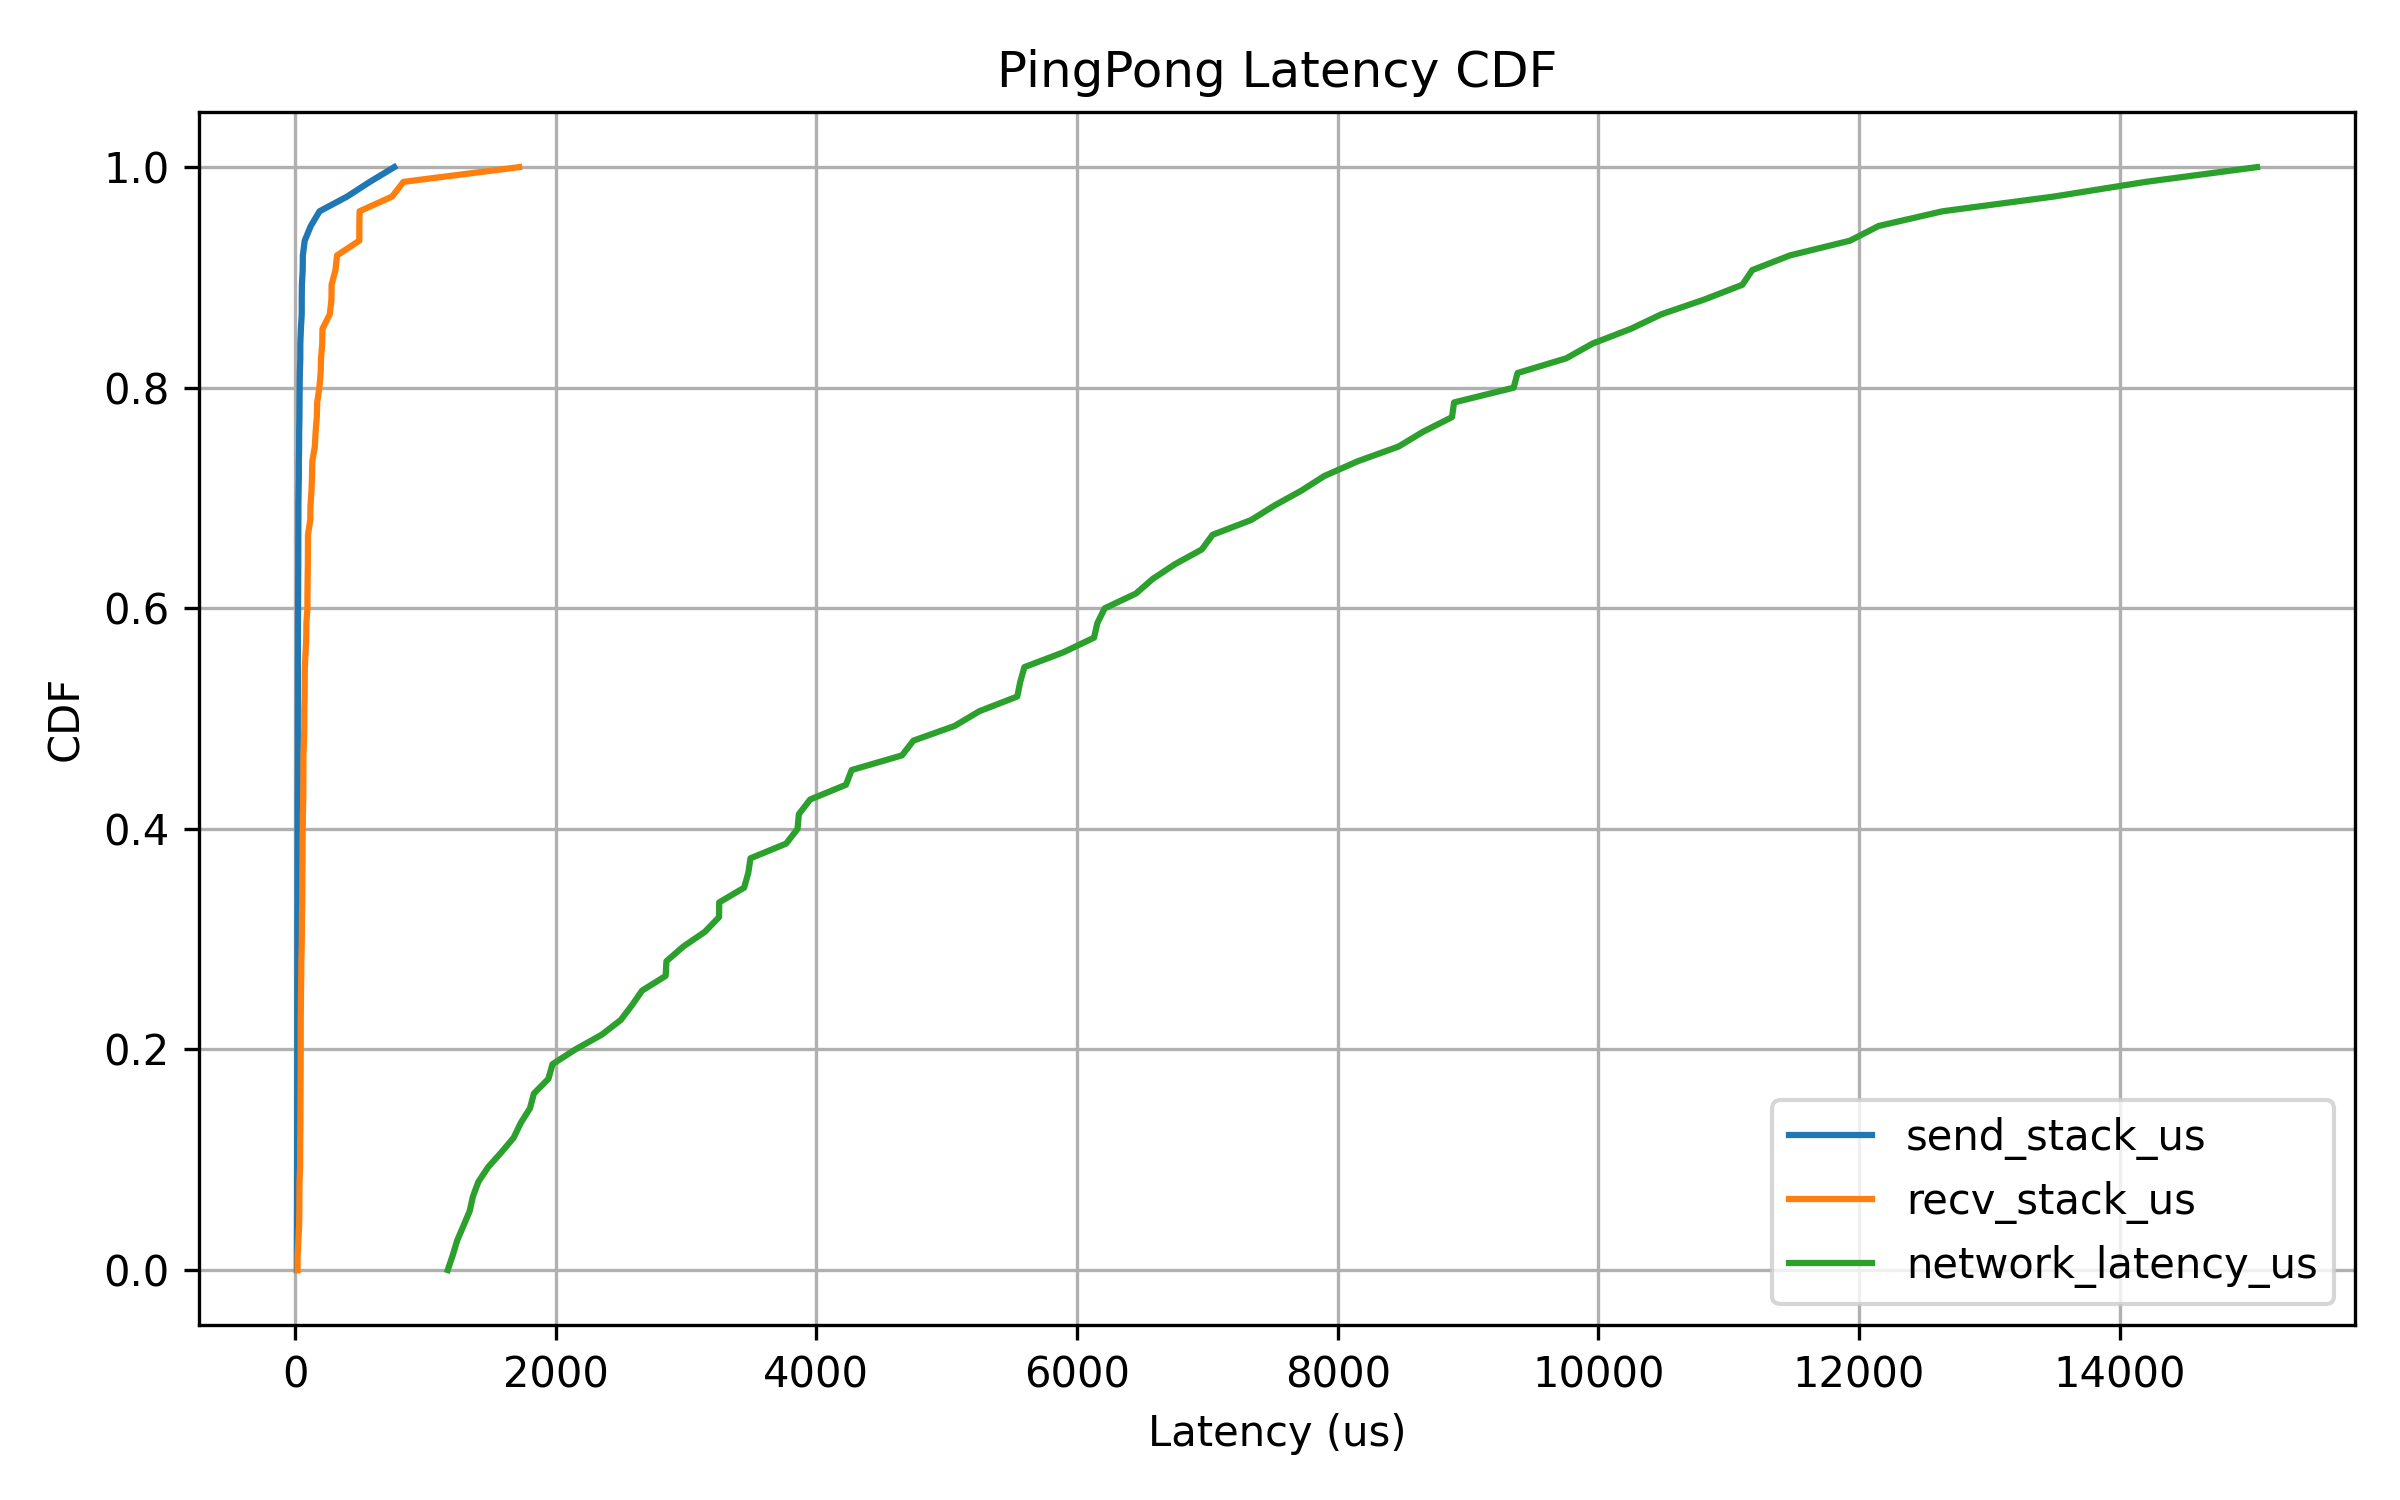
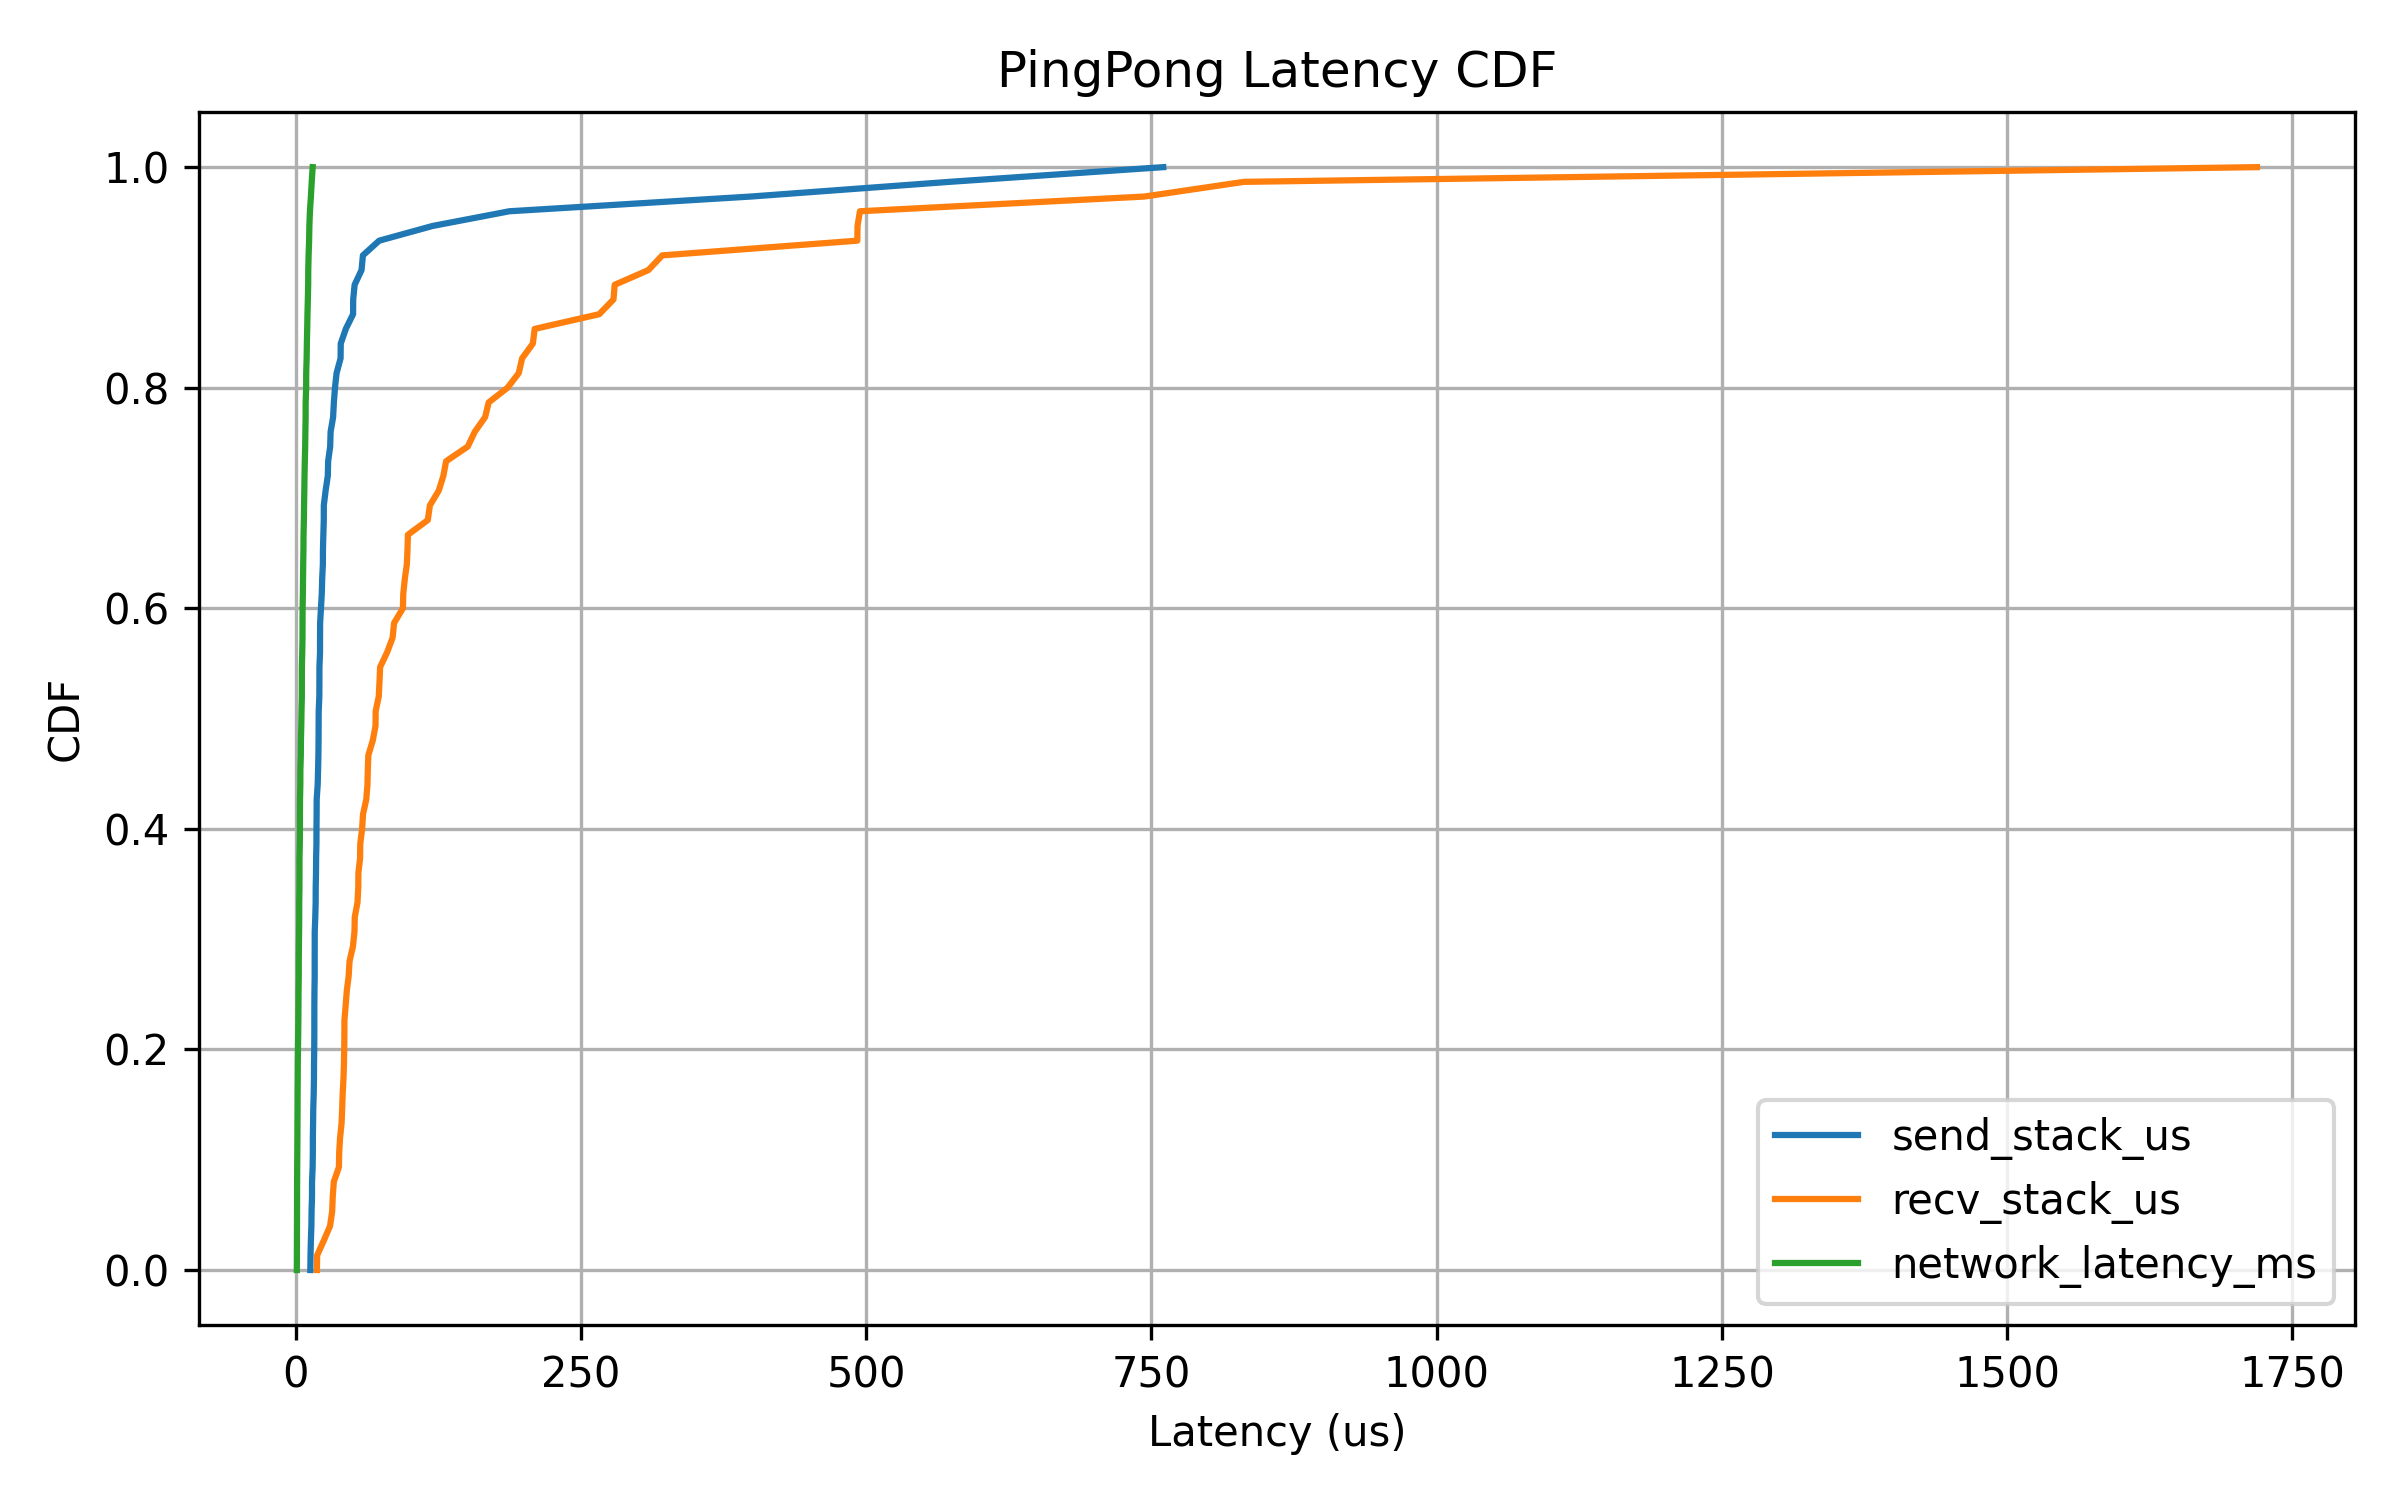
fix: update network latency calculation to milliseconds in analyze_ebpf.py refactor: update CSV headers for client and server data to use consistent naming

diff --git a/src/scripts/analyze_ebpf.py b/src/scripts/analyze_ebpf.py
@@ -169,7 +169,7 @@ def compute_metrics(cycle: Dict) -> Dict:
     return {
         "send_stack_us": cycle["send_exit"] - cycle["send_entry"],
         "recv_stack_us": cycle["recv_exit"] - cycle["recv_entry"],
-        "network_latency_us": cycle["srtt_us"],
+        "network_latency_ms": cycle["srtt_us"] / 1000.0,
     }
 
 
